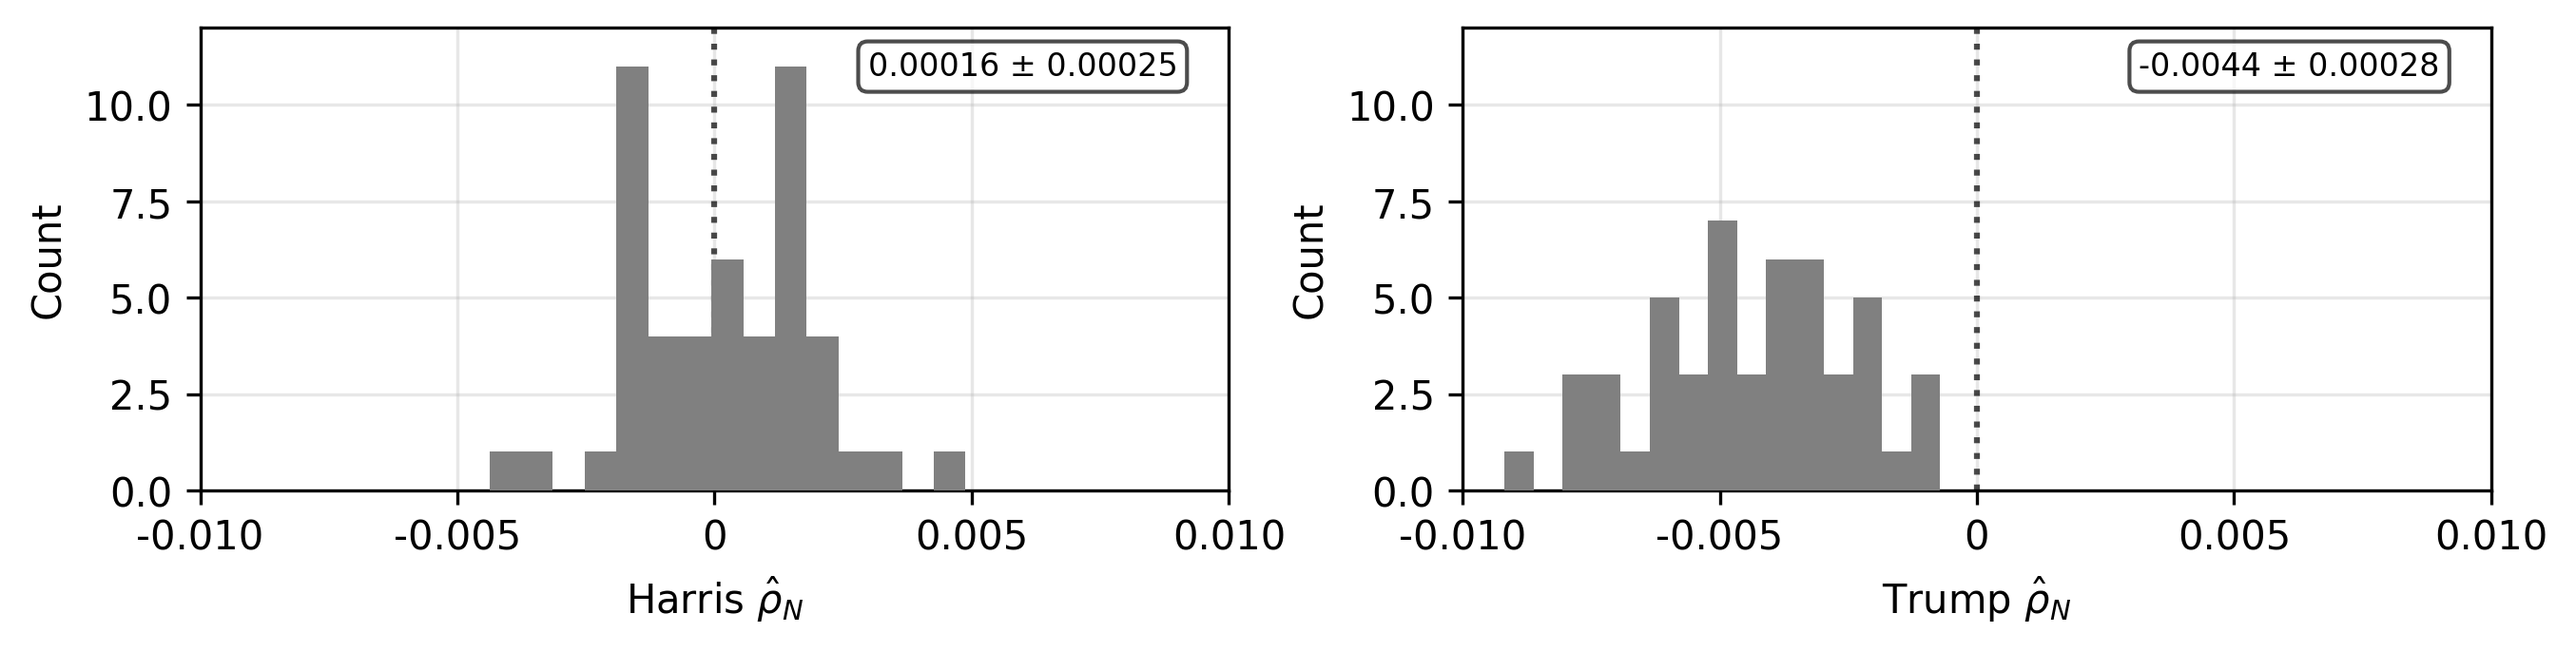
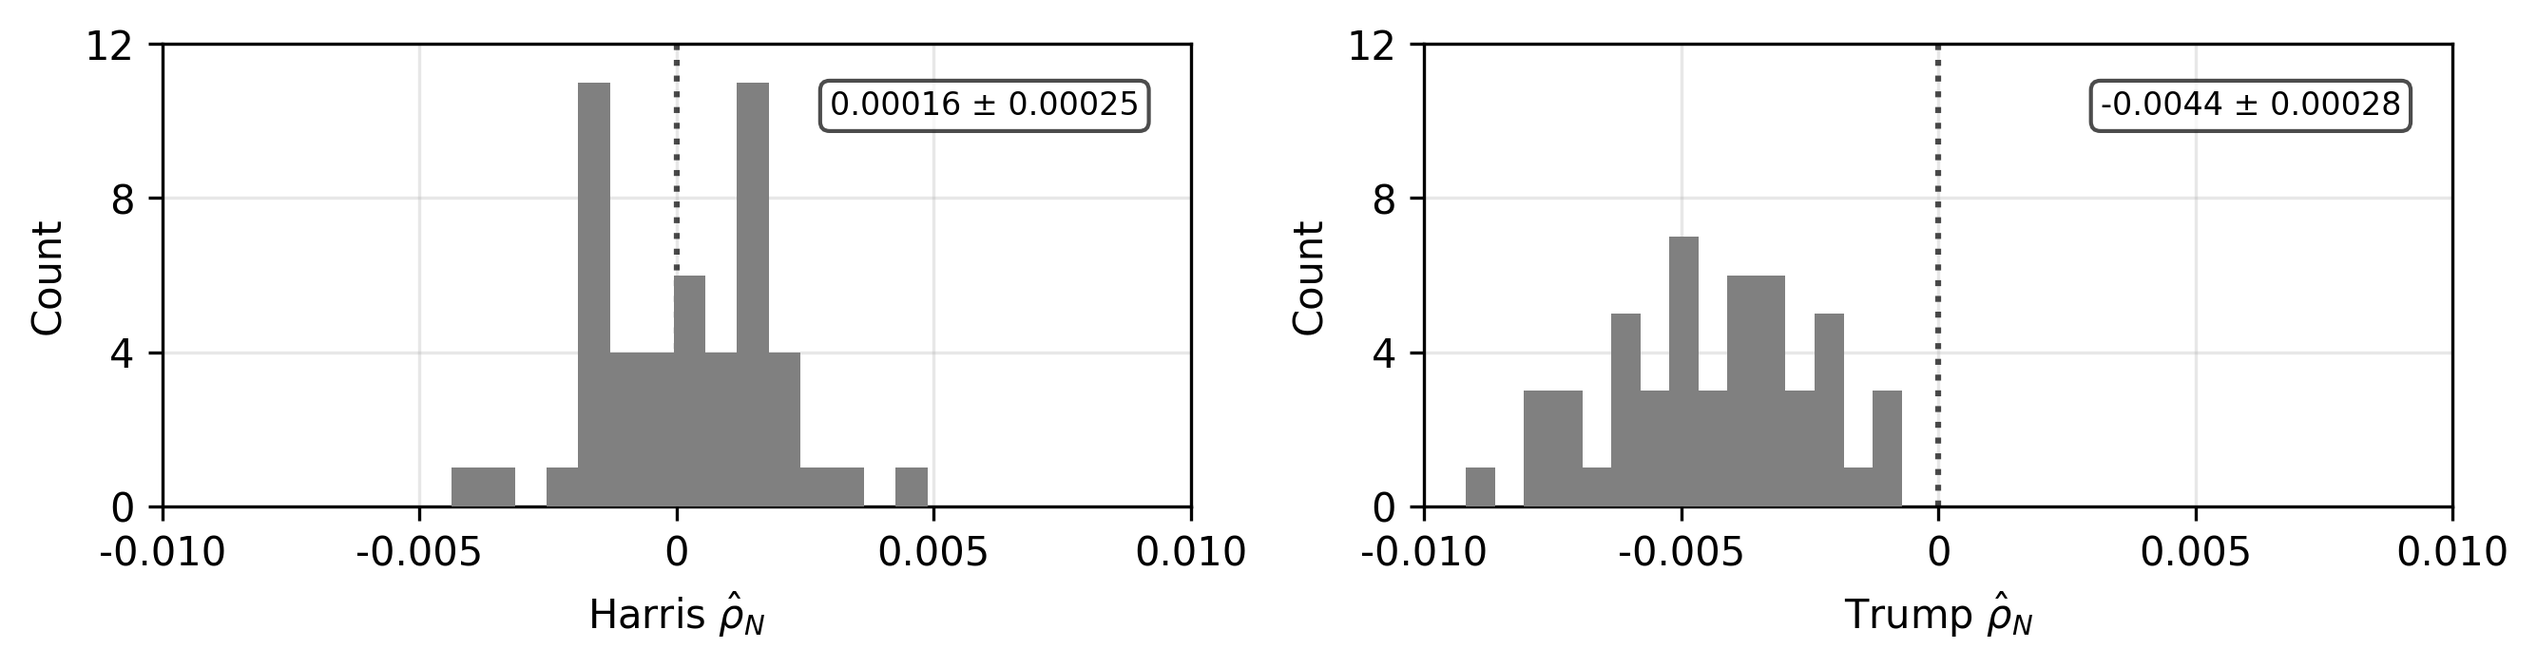
polish fig 6 and fig 5

diff --git a/src/figure_5.py b/src/figure_5.py
@@ -54,6 +54,7 @@ def plot_histogram(ax, data: pd.Series, candidate: str) -> None:
     ax.set_ylim([0, 12])
     ax.set_xticks([-0.010, -0.005, 0, 0.005, 0.010])
     ax.set_xticklabels(["-0.010", "-0.005", "0", "0.005", "0.010"])
+    ax.set_yticks([0, 4, 8, 12])
     ax.grid(True, alpha=0.3, zorder=0)  # Set grid with low zorder
     
     # Plot histogram with higher zorder to appear on top of grid
@@ -68,7 +69,7 @@ def plot_histogram(ax, data: pd.Series, candidate: str) -> None:
     textstr = f"{mean_rounded} ± {std_err_rounded}"
     ax.text(
         0.95,
-        0.95,
+        0.90,
         textstr,
         transform=ax.transAxes,
         fontsize=8,
